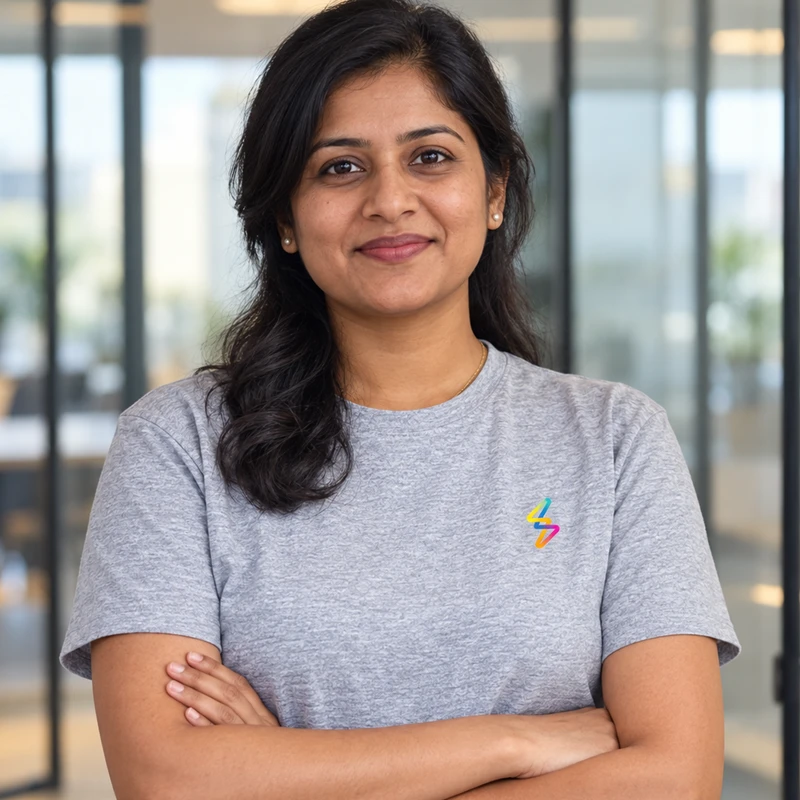
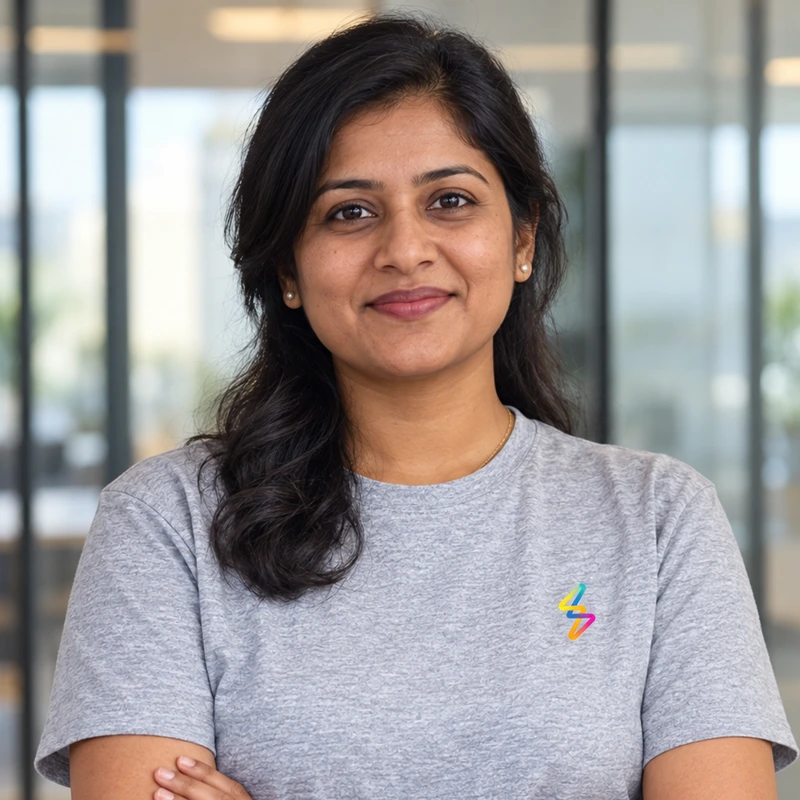
feat: align leadership photos framing, update Sofia and Divya images, swap Rohan and Kofi positions, and hide directors section

diff --git a/sections/about/leadership/IndustryDomainLeadership.tsx b/sections/about/leadership/IndustryDomainLeadership.tsx
@@ -33,9 +33,9 @@ const industryLeadershipData: IndustryLeader[] = [
   },
   {
     id: "ind-4",
-    name: "Kofi Boateng",
-    role: "Industry Director — Retail, E-Commerce & Logistics",
-    image: "/webp/assets/About-page/leadership/industry_kofi_boateng.webp",
+    name: "Rohan Varma",
+    role: "Domain Principal — Cybersecurity & Zero-Trust Governance",
+    image: "/webp/assets/About-page/leadership/industry_rohan_varma.webp",
   },
 
   // Row 2 (5 to 8)
@@ -59,9 +59,9 @@ const industryLeadershipData: IndustryLeader[] = [
   },
   {
     id: "ind-8",
-    name: "Rohan Varma",
-    role: "Domain Principal — Cybersecurity & Zero-Trust Governance",
-    image: "/webp/assets/About-page/leadership/industry_rohan_varma.webp",
+    name: "Kofi Boateng",
+    role: "Industry Director — Retail, E-Commerce & Logistics",
+    image: "/webp/assets/About-page/leadership/industry_kofi_boateng.webp",
   },
 ];
 

diff --git a/sections/about/leadership/LeadershipTeamGrid.tsx b/sections/about/leadership/LeadershipTeamGrid.tsx
@@ -84,9 +84,9 @@ const leadershipTeamData: Leader[] = [
   },
   {
     id: "exec-12",
-    name: "Emily Watson",
+    name: "Sofia",
     role: "Executive Director — Strategy & Global Delivery",
-    image: "/webp/assets/About-page/leadership/exec_emily_watson.webp",
+    image: "/webp/assets/About-page/leadership/exec_sofia.webp",
   },
 ];
 

diff --git a/app/about/leadership-team/page.tsx b/app/about/leadership-team/page.tsx
@@ -93,7 +93,9 @@ export default function LeadershipTeamPage() {
       <Leadership3Pillars />
 
       {/* 4. 01 — Board of Directors (Executive Board) */}
+      {/*
       <DirectorsSection />
+      */}
 
       {/* 5. 02 — Executive Leadership (12 Members — 3 Rows of 4) */}
       <LeadershipTeamGrid />
